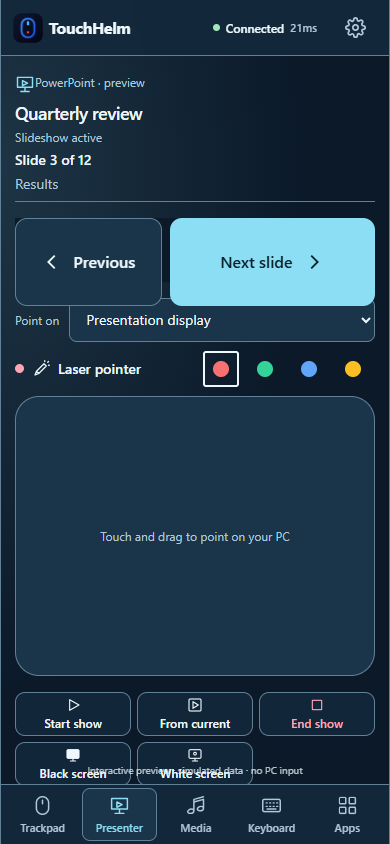
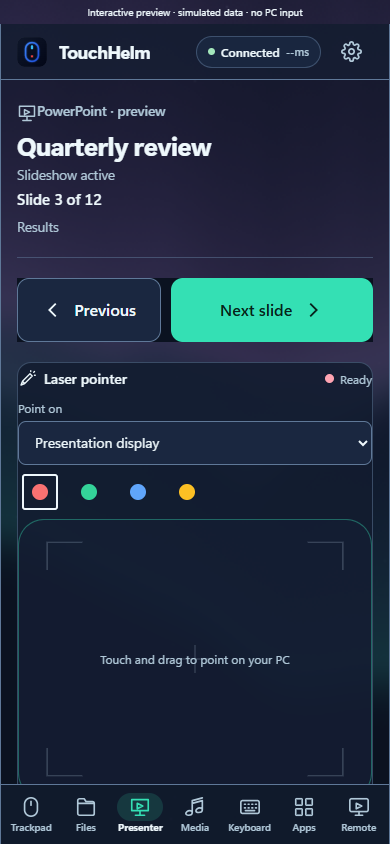
Update README features and current 2.2.3 screenshots

diff --git a/README.md b/README.md
@@ -1,103 +1,134 @@
 # TouchHelm
 
-**Your PC, at your fingertips.** TouchHelm 2 adds a shared visual system, dependable composition, and controls driven by actual Windows capabilities.
+**Your PC, at your fingertips.** Use your phone as a Windows trackpad, keyboard, file browser, presentation remote, media controller and live desktop viewer. Or control the PC with its webcam through AirControl.
 
-Turn your phone into a Windows trackpad, keyboard, presentation remote, media controller, app launcher, and live desktop viewer/controller. TouchHelm runs on your PC and serves its controls to a phone browser over your local network or private Tailscale connection. Scan the desktop QR code to connect; no phone APK is needed.
+TouchHelm runs on your Windows PC and opens in your phone's browser over local Wi-Fi. No phone app, VPN, manually trusted certificate or internet relay is needed.
+
+**[Download TouchHelm 2.2.3 for Windows](https://github.com/myselfpankajk4/TouchHelm/releases/download/v2.2.3/TouchHelm-2.2.3-setup-win-x64.exe)** · [All releases](https://github.com/myselfpankajk4/TouchHelm/releases) · [Setup and local Wi-Fi guide][local-guide]
+
+## Current interface
+
+<img src="docs/images/desktop.png" alt="TouchHelm 2.2.3 Windows control centre with phone and AirControl modes" width="1000">
 
 <p>
-  <img src="docs/images/desktop.png" alt="TouchHelm desktop pairing and connected-device panel" width="620">
-  <img src="docs/images/trackpad.png" alt="TouchHelm phone trackpad with compact typing dock" width="250">
+  <img src="docs/images/trackpad.png" alt="Phone trackpad with mouse buttons and typing dock" width="250">
+  <img src="docs/images/files.png" alt="Local PC folder browsing with Send, Receive and a collapsed transfer progress strip" width="250">
+  <img src="docs/images/remote.png" alt="Remote viewer with monitor selection, touch modes, quality controls and PC audio" width="250">
 </p>
 
-*Previews use synthetic QA device data and illustrate the interface rather than an active connection.*
+Screenshots captured from the **2.2.3 interface on 1 November 2026** using preview mode and synthetic fixtures. Devices, files, artwork, tracking measurements and remote video are examples; no personal files, live pairing credentials, camera image or PC capture are shown.
 
-## Features
+<details>
+<summary>More phone screens: Presenter, Media, Keyboard and Apps</summary>
 
-**AirControl:** choose **Control via phone** or **AirControl** at desktop startup.
-Head & Face is the fresh-profile default: point with your head, then dwell to
-click, right-click, double-click or drag/drop using the floating action dock.
-Hand pointing/pinches and combined control remain available. Calibration, a
-non-injecting practice cursor, remappable profiles,
-animated guides, a native status HUD and Windows dictation are included. The
-camera starts only on **Start camera**; setup uses a separate checksum-locked
-runtime. Phone viewing/audio stay connected when AirControl takes input ownership.
-[Setup and gesture guide](docs/AIRCONTROL.md) ·
-[Verification and physical-test limits](docs/AIRCONTROL_VERIFICATION.md).
+<p>
+  <img src="docs/images/presenter.png" alt="Presentation remote with slide information, Previous and Next, and the laser surface" width="250">
+  <img src="docs/images/media.png" alt="Now Playing with artwork, timeline, playback controls and the PC audio option" width="250">
+</p>
+<p>
+  <img src="docs/images/keyboard.png" alt="Phone keyboard with Windows Start, modifiers, shortcut builder and Numpad tab" width="250">
+  <img src="docs/images/apps.png" alt="Searchable app launcher with running and pinned app states" width="250">
+</p>
 
-**Focused PC text and pairing guides:** Trackpad now reads and edits supported
-focused Windows fields in both directions. Conflicts keep the phone draft for
-review; password and read-only fields are excluded. A host PIN is required. See
-the [mobile certificate and Tailscale guide](docs/PAIRING.md) for setup and limits.
-Selecting an HTTPS mode on the PC reveals its instructions beside the QR.
+</details>
 
-**Remote (v2.2):** Control PC or View PC with live monitor video, trackpad/direct touch, pinch zoom, keyboard/numpad, quality presets and optional PC audio. Streaming starts disabled and requires a host PIN plus trusted HTTPS. The Cast phone to PC option guides compatible system casting; mobile browsers cannot capture the phone screen. [Setup, limitations and verification](docs/REMOTE.md).
+## Install and connect
 
-Remote now defaults to Clear 1080p, with a 1440p Detail option. Tab switches keep
-the stream; Stop leaves the rest of TouchHelm connected. Pairing survives refreshes
-in the same browser tab. New setups receive a generated password, and desktop
-Settings provides a Windows Wireless Display installer with installation progress
-and Windows administrator approval. Media can stream **PC audio only**, sharing
-its toggle with Remote while leaving screen capture off. Fullscreen requests
-landscape on supported browsers; measured cursor positions appear over the viewer.
-Generated PINs are four numeric digits. Desktop **Set up trusted pairing** prepares
-private HTTPS through Tailscale without a phone certificate download; sign-in on
-the PC and phone is still required. All seven existing themes use procedural
-CSS/JavaScript/SVG effects rather than the former botanical/robot background images.
+1. Download the installer above and run it on **Windows 10/11 x64**. It adds TouchHelm to Installed apps, a Start Menu shortcut, an optional desktop shortcut and an uninstaller.
+2. Put your phone and PC on the same reachable Wi-Fi. **Android Chrome** is the primary phone target; no phone installation is required.
+3. Open TouchHelm on the PC, choose **Pair your phone**, and scan the local QR code. You can also copy the displayed address into Chrome.
+4. Enter the PC PIN when prompted. Enable **File access** or **Screen and audio access** on the PC when you want those features; both require PIN protection.
+5. Choose a phone tab. Keep TouchHelm running on the PC; **Minimize to tray** keeps the connection available.
 
-<img src="docs/images/remote.png" alt="Remote control tab showing a clearly labeled sample desktop" width="300">
+The installer bundles its own Python, application libraries, screen/audio providers and isolated AirControl camera runtime/models. No system Python, pip command or PATH change is required. Setup reuses Microsoft's WebView2 and downloads its bootstrapper automatically if that runtime is missing; this setup step may need internet. Pairing and normal controls, file transfers and media use the local network without internet service.
 
-| Tab | What it does |
+**Updating:** exit TouchHelm from its tray menu, then run the newer installer. Updates use the existing app entry and preserve settings; routine upgrades do not require uninstalling first. [Installer details][installer-guide]
+
+The test installer is unsigned. Windows may display SmartScreen or publisher prompts; TouchHelm does not promise warning-free installation.
+
+## Seven phone tabs
+
+| Tab | Features |
 | --- | --- |
-| **Trackpad** | Large movement surface, left/middle/right clicks, tap, hold-to-drag, two-finger scrolling, edge scrolling, and optional air mouse. |
-| **Remote** | Live PC viewing/control, monitor selection, zoom, native keys, optional system audio, and a Miracast setup guide. |
-| **Typing dock** | Live typing by default, with optional buffering and two-way sync for supported focused PC fields. Return inserts a newline; PC Enter submits explicitly. Touching the pad dismisses typing and preserves the draft without PC input. |
-| **Presenter** | Previous/next above a large laser surface, monitor selection, independent countdown, and an optional PowerPoint slide/preview/notes drawer. |
-| **Media** | Now Playing with artwork, metadata, stateful Play/Pause, timeline, seeking and supported repeat/shuffle/speed controls. A queue appears only when a provider supplies one. |
-| **Keyboard** | Native press/release, F1–F24, letters, symbols, navigation, left/right modifiers, editing shortcuts, and integrated Numpad. Hold or latch modifiers for chords such as **Ctrl+Shift+A**. |
-| **Apps** | Real Windows icons and verified windows. Pinned apps first, then running/frequently opened apps. Hold or choose Actions for Open, Focus, Pin, Details and normal Close window. Save prompts stay on the PC. |
+| **Trackpad** | Large pointer surface; tap to click, hold to drag, two-finger scrolling/right click, edge scrolling and explicit left/middle/right buttons. A compact typing dock keeps text entry beside the pointer controls. |
+| **Files** | Browse local drives and Windows folders; search, sort, switch list/grid views and load more entries. Preview supported images, audio/video and PDFs; send phone files to a chosen PC folder or receive PC files through Chrome. |
+| **Presenter** | Previous/next slide, a large coloured laser surface, monitor selection and countdown timer. Supported PowerPoint sessions expose deck/slide context, current/next previews, speaker notes and slide selection. |
+| **Media** | Now Playing, artwork, artist/album information, player selection, timeline/seek and supported playback, shuffle, repeat and speed controls. Listen to PC audio without streaming its screen. |
+| **Keyboard** | Letters, symbols, navigation, F1–F24, native press/release, latched modifiers, shortcut combinations, Windows Start and an integrated Numpad. Release held keys explicitly when needed. |
+| **Apps** | Search registered Windows apps, view available app icons and verified windows, launch/focus apps, pin favourites and request normal window closure so application save prompts remain available. |
+| **Remote** | View or control a PC monitor with live video, trackpad/direct touch, pan, pinch zoom, cursor feedback, Fit/Actual size, fullscreen, quality presets, native keys and optional PC audio. |
 
-Seven complete themes—**Forest & Bloom, Resonance, Companion, Clay, Glass, Soft UI and Ink**—cover phone and desktop. Each supports light/dark appearance, reduced motion and increased contrast. Preferences belong to each device. Optional PIN pairing and trusted HTTPS, desktop device status, and system-tray support are included.
+### Files and local media
 
-**Living controls (v2.1):** Bloom grows vines and flowers around controls, Companion blinks and follows touches, Resonance plucks decorative strings, and Clay reacts with tactile impressions. Choose **Rich / Calm / Off** in Themes; system reduced motion takes priority. Decorations pause around active pointer control and never intercept input.
+- **Browse:** Desktop, Downloads, Documents, Pictures, Music, Videos and available local drives. Breadcrumbs, folder search, sorting and list/grid views help navigate larger folders.
+- **Send to PC:** choose files using the phone's picker, select a destination, or create a new folder. Existing files are preserved; duplicate names receive a number.
+- **Receive:** save individual or selected files through Chrome downloads. Chrome manages the phone's download permission and save location.
+- **Preview:** supported images and media open inside Files. PDFs have one **Open PDF in Chrome** action and a Receive option. Supported audio/video can also open in a separate Chrome tab; the inline player pauses when you do this.
+- **Audio formats:** MP3, M4A, WAV, Ogg, FLAC and AAC/ADTS (`.aac`, `.adts`) are recognised. Video formats include MP4, WebM and MOV. Playback still depends on the file's codec and the phone browser; Receive is the fallback for unsupported files.
+- **Portrait video:** the full frame uses contain sizing, with native controls fitted above navigation. The player adjusts to viewport changes and expanded/collapsed transfer history.
+- **Transfers:** a mini progress strip expands on tap to show names, direction, detailed progress, history, Cancel and Retry. Progress updates do not open it automatically. Uploads/downloads stream in bounded chunks rather than loading an entire file into phone memory.
+- **Limits:** up to **16 GiB per file** and 32 files per phone selection/queue. File sessions expire after 30 minutes. These are implementation limits, not a claim that every phone has completed a 16 GiB transfer.
 
-Live typing starts enabled on new devices and remembers explicit opt-out. Return still adds a newline. Drafts edited offline pause live synchronization until **Send**, so reconnecting cannot replay them. Media uses a shared playback clock for elapsed time, seek thumb and progress; unavailable artwork has an explicit placeholder.
+File access follows the signed-in Windows user's permissions. Network shares, reparse redirects and cloud-only placeholders are restricted; TouchHelm does not download cloud-only files in the background. Disconnecting or revoking access ends the file session. [Files setup and limits][local-guide]
 
-Optional **private Tailscale HTTPS** pairs Windows and Android without installing TouchHelm's CA. Both devices must have Tailscale installed and connected to the same tailnet. Setup lives in the desktop Pairing panel; HTTP and local-certificate HTTPS remain available. See the [living controls and verification record](docs/LIVING_CONTROLS.md).
+### Live typing and two-way PC text
 
-<img src="docs/images/themes.png" alt="Seven TouchHelm phone and desktop theme previews" width="1100">
+Live typing is on by default for a new phone. Supported focused Windows fields can sync in both directions: focusing an editable PC field can raise the phone typing dock, PC edits appear on the phone, and phone edits update the active field. Selected Chrome autocomplete suggestions do not replace an ongoing phone draft.
 
-<img src="docs/images/living-themes.png" alt="Four living themes with peripheral scenes in simulated phone interfaces" width="1080">
+Password and read-only fields are excluded. Support depends on the application's Windows accessibility information; this is not universal text-field access. Offline drafts remain local and require explicit Send after reconnecting. [Typing and pairing guide][typing-guide]
 
-Open **`/preview.html`** on the running host for an interactive preview board with all tabs, desktop panels, themes and simulated states. Preview transport cannot send PC input. [Implementation and acceptance record](docs/TOUCHHELM_V2.md) · [Desktop and HTTPS guide](docs/desktop-v2.md).
+### Remote viewing, control and PC audio
 
-## Requirements
+Choose **Control PC** or **View PC**, select a monitor, and use trackpad or direct-touch interaction. Pinch to zoom, pan without clicking the PC, or enter fullscreen. Quality presets cap video at Saver 540p/15, Balanced 720p/30, Clear 1080p/30 or Detail 1440p/24; actual performance depends on hardware and the network.
 
-- **Host:** Windows 10/11, Python, Windows PowerShell, WebView2 Runtime and .NET Framework 4.6.2 or later. Python 3.13 is used in this workspace. Tkinter remains available for the classic rollback UI.
-- **Phone:** a modern browser on the same reachable local network as the PC. The UI supports phone, landscape, and desktop browser sizes.
-- **Network:** HTTP/WebSocket **8765**, optional local HTTPS/WSS **8766**, discovery UDP **53317**. Private Tailscale Serve uses **HTTPS 8443** and a loopback-only backend on **8767**. Allow the LAN host through Windows Firewall on your private network if prompted.
+The **Hear PC audio on this phone** option in Media and PC audio in Remote share one controller. Audio-only mode captures the Windows output device without capturing the screen or granting pointer control. Playback starts after host confirmation; Unmute appears if Chrome requires another playback gesture.
 
-Node.js is needed only for development tests, not normal app use.
+Windows lock, permission changes and disconnects release app-owned input. Switching phone tabs can keep the stream alive; backgrounding/locking the phone can pause it and require Resume. The casting guide covers compatible Windows Wireless Display setup; TouchHelm does not guarantee receiver compatibility. [Remote guide][remote-guide]
 
-## Quick start
+## AirControl: use the PC webcam
 
-This repository is private. Clone it with a GitHub account that has access:
+<img src="docs/images/aircontrol.png" alt="AirControl's non-injecting practice workspace with calibration, exercises and session controls" width="1000">
+
+Choose **AirControl** on the desktop for **Head & Face**, **Hand** or **Combined** control. Head & Face is the fresh-profile default. The camera starts only when you select **Start camera**.
+
+- Select a camera and monitor, calibrate, and practice with a simulated cursor before enabling PC control.
+- Head mode includes dwell-based left/right/double click, two-step drag/drop and a scrolling action dock. Personal expression calibration supports additional actions.
+- Hand mode uses knuckle-centred pointing, anchored clicks, pinch gestures, scrolling, and pause/resume gestures. Profiles and advanced gesture mappings are adjustable.
+- Practice includes click targets, drag/drop, scrolling and free movement. Practice sends no Windows mouse or keyboard input.
+- Session, Gesture mappings, Practice, Personal settings and Diagnostics separate setup from daily use. Pause/Stop, the floating HUD and tray controls provide escape routes.
+- Windows dictation and Voice Access guidance are available. Windows manages microphone/speech permissions.
+- Tracking runs in the isolated PC camera runtime. Reports contain bounded diagnostics and are exported only on request; they do not upload camera frames or field contents.
+
+Tracking quality depends on the webcam, lighting, pose and hardware. Physical camera and speech acceptance remain separate from simulated tests. [AirControl setup][air-guide] · [Practice and daily-use details][air-daily-guide]
+
+## Appearance and desktop controls
+
+Five themes—**Aurora** (default), **Bloom**, **Resonance**, **Constellation** and **Ink**—cover phone and desktop, with light/dark appearance and increased contrast. The generative themes offer Rich, Calm and Off effects; reduced-motion preferences take priority. Preferences are saved per device. Browser-dependent vibration feedback has its own test control. [Theme details][theme-guide]
+
+The desktop control centre includes mode selection, pairing, connected devices/activity, settings, diagnostics, remote Stop controls and minimise-to-tray. Camera, Files and screen/audio permissions remain explicit PC-side choices.
+
+## Connection, privacy and compatibility
+
+Controls and files use **local HTTP/WebSocket without TLS**. Screen and PC audio use **direct encrypted WebRTC** between verified local peers. Home Wi-Fi does not turn HTTP into end-to-end encryption; use a trusted private network. No internet relay, STUN/TURN fallback, mobile certificate or router port forwarding is configured.
+
+PIN protection, peer/Host/Origin checks, bounded work and disconnect cleanup guard access. Files and screen/audio start disabled and have separate PC permissions. Phone pages cannot grant themselves these permissions. Config, tokens and native helper data stay outside served assets.
+
+PowerPoint, Windows media sessions, app windows, volume and brightness expose different capabilities. Missing slide counts, playlists, seek/readback or other provider features remain unavailable. TouchHelm cannot unlock Windows, cross UAC, wake a powered-off PC or guarantee input to elevated applications. Hardware Fn functions and universal playlist access are not promised.
+
+## Run the released source
+
+The installer is the normal end-user path. Source development needs Windows, Python 3.13 and the Windows UI/runtime dependencies described in the guides. Node.js 20+ is needed only for browser development/tests.
 
 ```powershell
 git clone https://github.com/myselfpankajk4/TouchHelm.git
 cd TouchHelm
+git checkout v2.2.3
 .\run.bat
 ```
 
-On first launch, `run.bat` creates `.venv` and installs the pinned Python dependencies. Later launches use that environment and run the current source.
+This checks out the released source matching the screenshots. `run.bat` creates the source virtual environment and installs its pinned dependencies. Optional source-mode streaming/camera setup is documented in the Remote and AirControl guides; these components are bundled in the Windows installer.
 
-1. Keep the phone and PC on the same network.
-2. Scan the QR code in the TouchHelm desktop window.
-3. Open the link and enter a PIN if enabled.
-4. Select a tab and control your PC.
-
-The selectable PC address and **Copy URL** button provide an alternative to scanning. Keep the host running; **Minimize to tray** hides its window without disconnecting the phone.
-
-### Manual setup
+For a manually prepared source environment:
 
 ```powershell
 python -m venv .venv
@@ -105,120 +136,45 @@ python -m venv .venv
 .\.venv\Scripts\python.exe main.py
 ```
 
-Enable PIN pairing, run without the desktop window, or choose the classic desktop:
+`main.py --pin <four-digits>`, `--headless` and `--classic-ui` select PIN protection, headless hosting and the Tk fallback. Settings are stored in the checkout's ignored `config.json` for source mode, or `%LOCALAPPDATA%\TouchHelm` for the installed app. The normal ports are HTTP/WebSocket **8765** and discovery UDP **53317**.
 
-```powershell
-.\.venv\Scripts\python.exe main.py --pin 1234
-.\.venv\Scripts\python.exe main.py --headless
-.\.venv\Scripts\python.exe main.py --classic-ui
-```
-
-Use your own four-digit PIN; `1234` is an example. Changing/enabling a PIN revokes phone authorization and releases held inputs.
-
-### Updates
-
-Pull changes, then launch `run.bat` again. The single-instance launcher restores the current window when source and startup settings match. Changed source requests graceful shutdown and starts the new build after ownership is released. It reports failure if that handoff cannot finish safely. The QR carries the current browser build; the phone checks on open/focus and refreshes a confirmed changed build while keeping its draft.
-
-Browser preferences and saved update drafts migrate from the former app name. This workspace's **TouchHelm (Latest)** shortcut points to the source launcher and uses the TouchHelm icon. For a host started before v2, quit that older host once before using the new single-instance lifecycle.
-
-## App compatibility
-
-Details depend on what each desktop application exposes:
-
-| Integration | Available behavior |
-| --- | --- |
-| **PowerPoint** | Deck title, slide count/title, slideshow state, direct COM commands, on-demand current/next previews, notes and slide selection. |
-| **Other recognized presenter/browser/PDF windows** | Verified presentation-window context and guarded keyboard fallback. Generic browser windows are rejected; unavailable slide counts/previews remain unavailable. |
-| **Windows media sessions** | Player selection, artwork, metadata, state/timeline, seek bounds, and supported playback/seek/shuffle/repeat/rate commands. |
-| **Windows Media Player** | Selectable queue when a running instance exposes it through COM. |
-| **Volume/brightness** | Native volume keys request the Windows flyout. TouchHelm overlays use measured readback. Missing readback stays unavailable; brightness depends on monitor/driver support. |
-
-Windows media sessions provide no universal playlist API. TouchHelm does not scan Music/Videos folders in this flow. App windows use registered or executable identity; uncertain matches are not labeled Running. Windows may refuse foreground activation. Launch counts record successful requests, not proof that an app finished opening. Elevated applications can reject ordinary native input; hardware Fn functions are not promised.
-
-## Settings and privacy
-
-Local settings are saved automatically in `config.json`, which is excluded from Git. `config.example.json` is a clean reference without a personal hostname or enabled PIN. Launch history in `.touchhelm_usage.json` is also excluded.
-
-| Setting | Default | Range/values |
-| --- | --- | --- |
-| Port | `8765` | 1–65535; restart to change listening port |
-| Pointer sensitivity | `1.3` | 0.4–3.5 |
-| Pointer acceleration | `1.25` | 1.0–2.5 |
-| Scroll speed | `1.0` | 0.3–2.5 |
-| Natural scrolling | Off | On/off |
-| PIN required | Off | Four ASCII digits when enabled |
-| Laser color | Red | Red, green, blue, amber |
-| Theme | Glass | Bloom, Resonance, Companion, Clay, Glass, Soft UI, Ink; device-local |
-| HTTPS | Off, port `8766` | Enable on desktop; manually trust this PC’s public CA on Android |
-| Private Tailscale HTTPS | Off | Desktop setup; same tailnet, host PIN, HTTPS 8443 |
-| Live typing | On for a new device | Device-local opt-out; offline drafts require explicit Send |
-| Living effects | Rich | Rich / Calm / Off; system reduced motion wins |
-
-The default transport is HTTP/WebSocket for a trusted local network. Optional HTTPS uses a local CA and address-specific server certificate; private keys remain in a restricted user folder outside served assets. Trust installation is manual. An authenticated, short-lived, single-use handoff transfers drafts/preferences between HTTP and HTTPS; authentication is rechecked. See the [Android setup instructions](docs/desktop-v2.md#optional-android-https-setup).
-
-An enabled PIN gates input, context/catalog queries, settings and private artwork/icons. Asset URLs contain opaque IDs; authentication uses headers. App/media commands use registered catalog IDs. The privileged desktop bridge belongs only to the owned local desktop window and has no phone HTTP command route.
-
-## Development and verification
-
-The host uses Python/aiohttp, an owned WebView2 desktop shell (with Tk rollback), and Win32 input. The phone uses plain HTML/CSS/JavaScript. A lazy hidden PowerShell bridge provides COM/WinRT context; slow provider work runs outside the input event loop and returns bounded failure states.
-
-### Safe Python regressions
-
-After installing `requirements.txt`, run on Windows:
+### Development checks
 
 ```powershell
 .\.venv\Scripts\python.exe -m unittest discover -s tests -p "test_*.py"
-```
-
-### Browser checks
-
-With Node.js 20 or later:
-
-```powershell
 npm ci
 npm test
 npx playwright install chromium
 npm run test:browser
 ```
 
-`npm run test:visual` additionally writes screenshots to `tests/artifacts/`. `PLAYWRIGHT_MODULE` and `CHROMIUM_EXECUTABLE` can select an existing installation. No Codex runtime is required.
-
-These suites mock native effects so they do not type, click, launch apps, play media, change volume/brightness, or lock the PC. **`test_touchhelm.py` is an older manual native-action script, not a safe regression suite.** Do not run it for unattended verification.
-
-Physical phone gestures, live PowerPoint/player integration, and native feedback still need a device smoke test. See [BUGFIX_REPORT.md](BUGFIX_REPORT.md) for evidence and limitations.
-
-## Project layout
-
-```text
-main.py                    Desktop/headless entry point
-run.bat                    Source launcher and first-run setup
-gui/webview_window.py      Owned WebView2 bridge, pairing, devices, tray
-gui/web/                   Shared themed desktop interface
-gui/app_window.py          Classic Tk rollback interface
-server/web_server.py       HTTP/WebSocket and authentication
-server/windows_input.py    Native input, volume and brightness
-server/aircontrol/         Isolated webcam worker, gestures, ownership, HUD and speech
-server/desktop_services.py Async catalog/context interface
-server/desktop_bridge.ps1  COM/WinRT providers
-server/osd_overlay.py      Desktop feedback
-server/build_version.py    Content-derived browser versions
-server/instance_control.py Latest-source restore/restart lifecycle
-server/secure_pairing.py   Local CA, LAN certificates and user ACLs
-server/asset_store.py      Bounded opaque artwork/icon cache
-web/                       Phone controls, themes, PWA assets
-android/                   Experimental Android WebView wrapper
-tests/                     Safe regressions and previews
-docs/images/               README interface previews
-```
-
-The browser is the supported phone entry point. The Android scaffold has been renamed to `com.touchhelm.app`; no APK build or Android device test is claimed. See [android/README.md](android/README.md).
+`npm run test:visual` captures UI screenshots. The regression harnesses mock native PC effects; physical phone, camera, PowerPoint/player and Windows integration still need participating-user checks. `test_touchhelm.py` is a legacy manual native-action script, not an unattended regression suite.
 
 ## Troubleshooting
 
-- **Cannot connect:** check the displayed address, reachable network, running host, and private-network firewall permission. Guest Wi-Fi/client isolation may block access.
-- **Old UI:** launch TouchHelm (Latest) and scan the current QR. Changed source uses the graceful single-instance restart. Quit a pre-v2 host once if it is still running.
-- **No media/presentation details:** open the application on the PC; unavailable fields depend on provider support.
-- **Vibration missing:** use Settings → Test vibration. An accepted API request is not proof of a physical pulse; browser support, user activation and phone settings matter.
-- **Air mouse or keep-awake unavailable:** complete trusted HTTPS pairing and grant browser permission. Other remote controls remain usable; keep-awake can still be released by the OS.
+- **Cannot connect:** keep the host running, use its current address, allow private-network firewall access and avoid guest-network client isolation.
+- **Files or screen/audio unavailable:** enable that specific permission on the PC and pair with its PIN. Phone settings cannot enable it.
+- **Old interface:** reload Chrome and reconnect to the current host. Source build changes use the single-instance handoff and browser version checks.
+- **A file will not play:** browser codecs differ. Try Open in Chrome or Receive; ensure cloud files are available offline on the PC first.
+- **PC audio is silent:** enable PC screen/audio access, play something through the Windows output device and use Unmute if requested.
+- **The phone locks or goes to the background:** the browser may suspend media/transfers. Return, reconnect and retry or Resume. Plain HTTP does not provide automatic screen-awake support.
 
-This is a private development repository. No public release or open-source license is currently declared.
+## Guides
+
+These links target the documented **2.2.3 release**:
+
+- [Local Wi-Fi, Files, permissions and transfer limits][local-guide]
+- [Windows installation, updating and uninstalling][installer-guide]
+- [Pairing and two-way text synchronization][typing-guide]
+- [Remote viewing, control and system audio][remote-guide]
+- [AirControl setup and gestures][air-guide]
+- [AirControl practice, diagnostics and daily use][air-daily-guide]
+- [Themes and effects][theme-guide]
+
+[local-guide]: https://github.com/myselfpankajk4/TouchHelm/blob/v2.2.3/docs/LOCAL_WIFI.md
+[installer-guide]: https://github.com/myselfpankajk4/TouchHelm/blob/v2.2.3/docs/WINDOWS_INSTALLER.md
+[typing-guide]: https://github.com/myselfpankajk4/TouchHelm/blob/v2.2.3/docs/PAIRING.md
+[remote-guide]: https://github.com/myselfpankajk4/TouchHelm/blob/v2.2.3/docs/REMOTE.md
+[air-guide]: https://github.com/myselfpankajk4/TouchHelm/blob/v2.2.3/docs/AIRCONTROL.md
+[air-daily-guide]: https://github.com/myselfpankajk4/TouchHelm/blob/v2.2.3/docs/AIRCONTROL_DAILY_USE_RELEASE.md
+[theme-guide]: https://github.com/myselfpankajk4/TouchHelm/blob/v2.2.3/docs/THEMES.md
